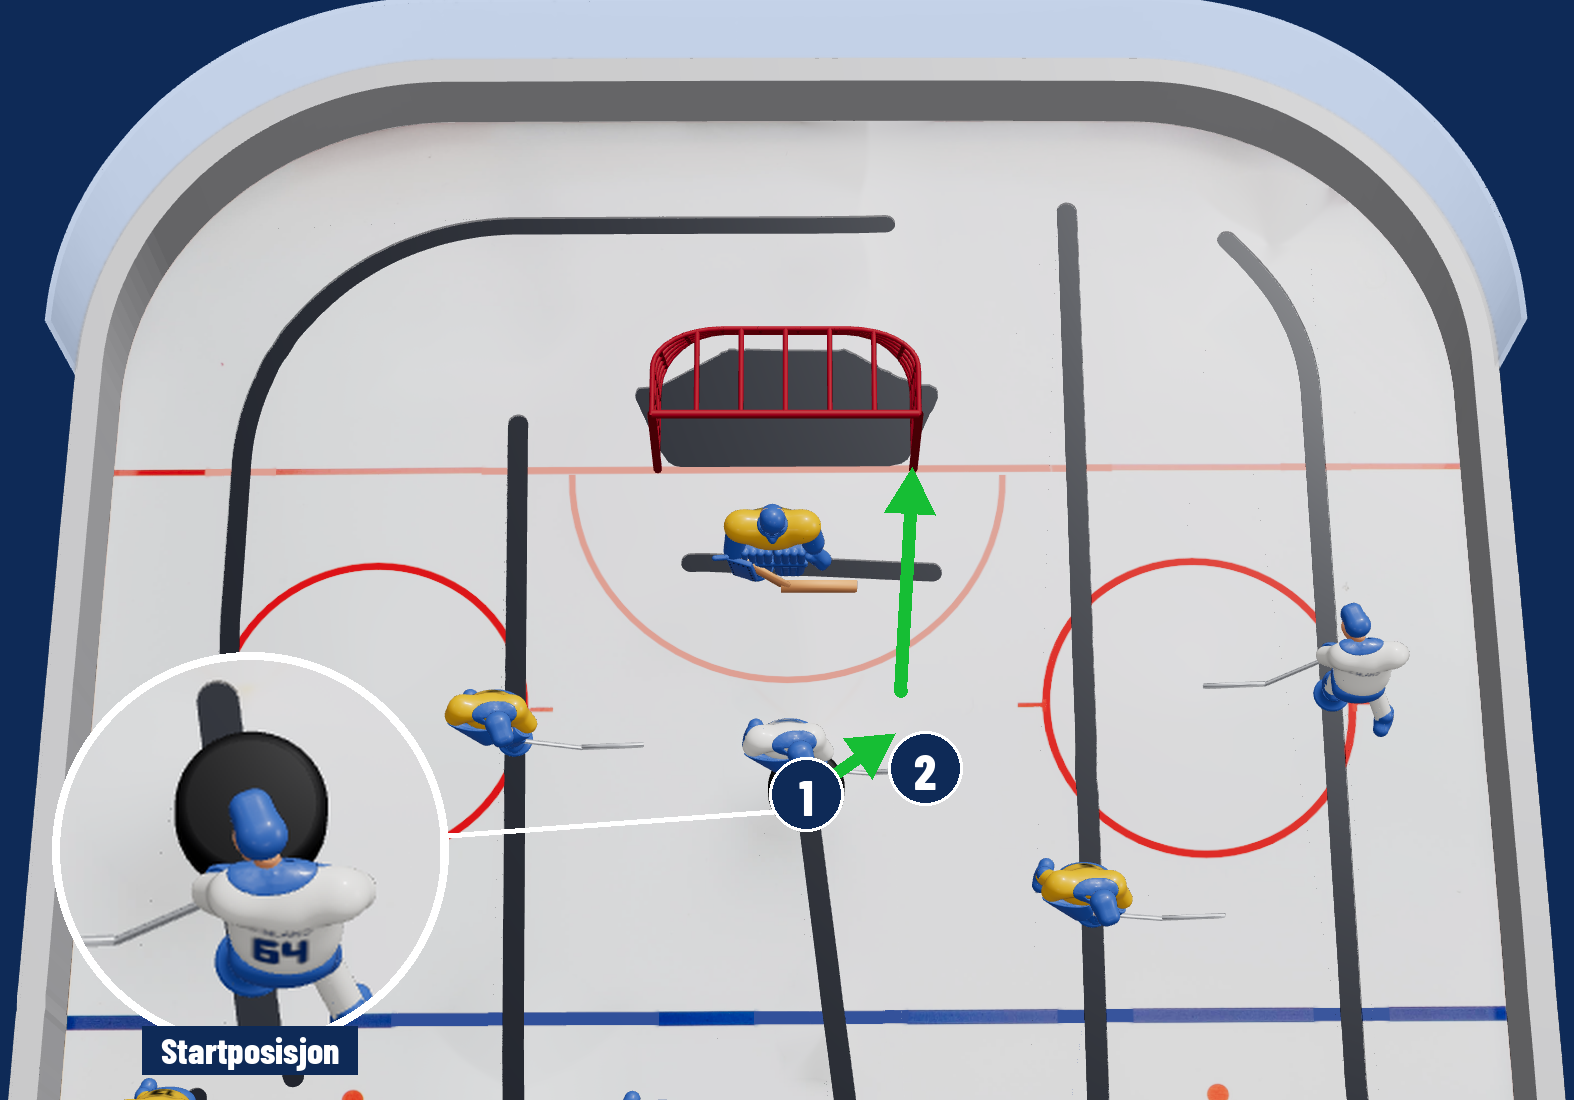
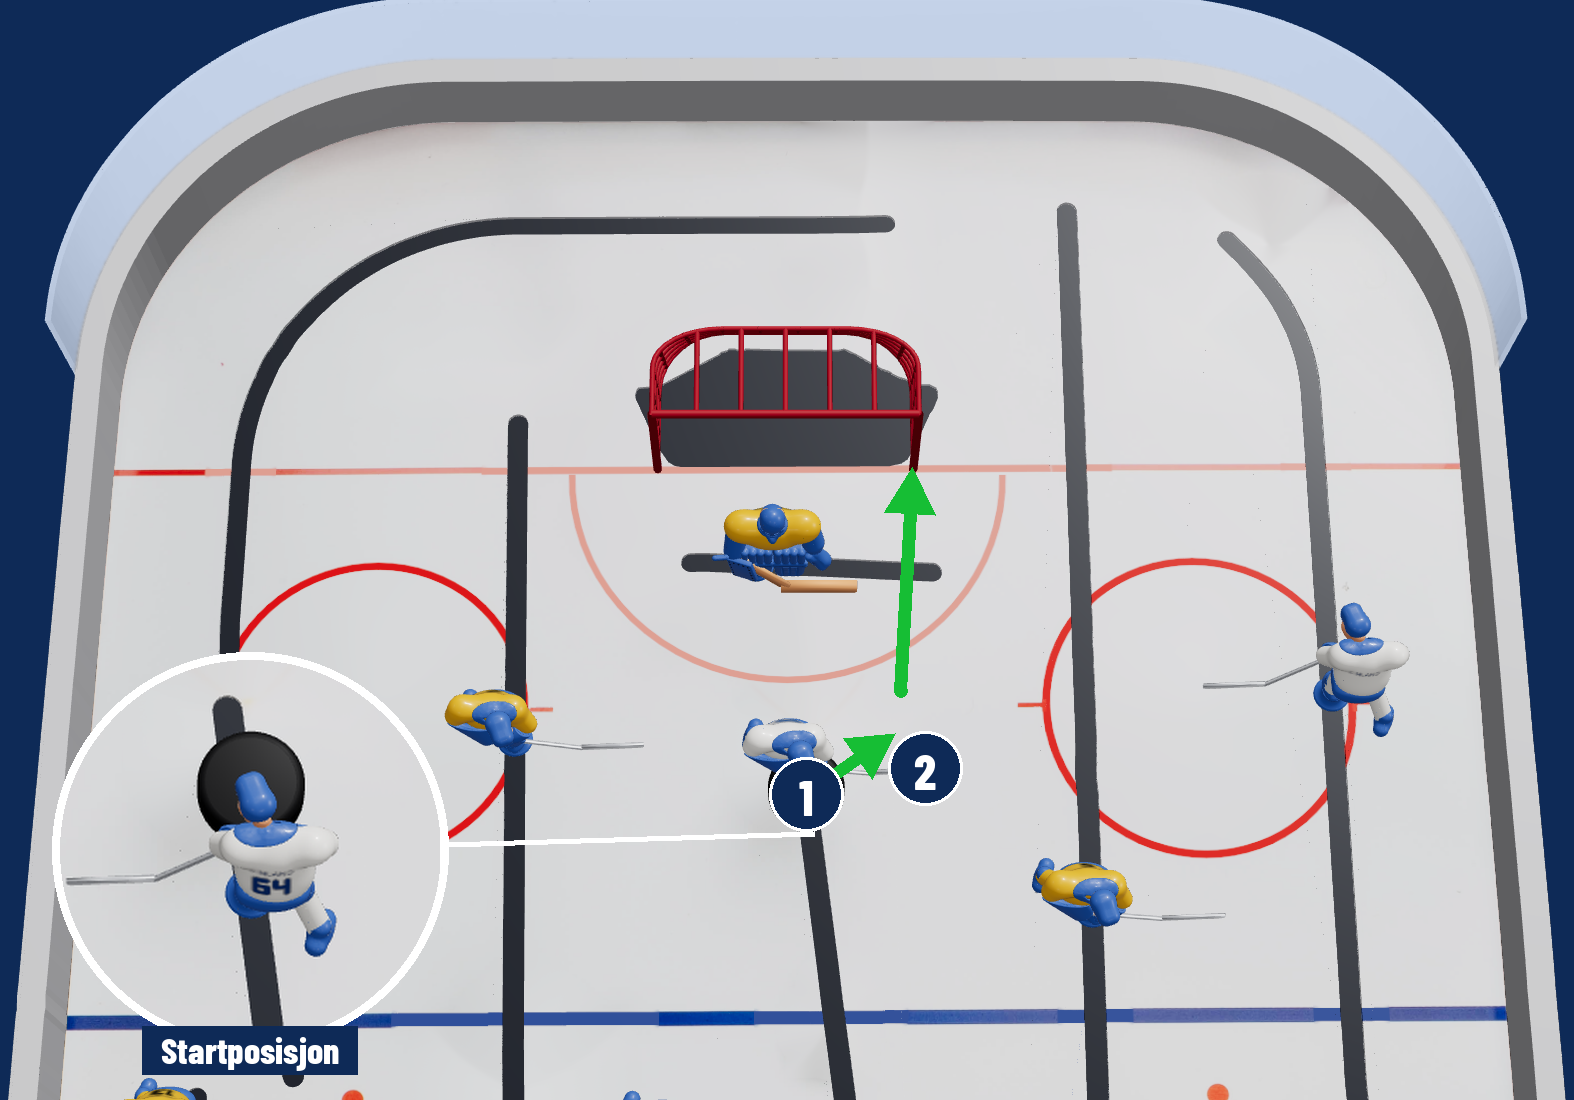
Move pictures: zoom the Startposisjon bubble out to show the whole centre
Claude-Session: https://claude.ai/code/session_01BNTiwfvDFK1dJGset6TA2u

Changed region(s): [[0.0311, 0.6182, 0.249, 0.9273], [0.2802, 0.7109, 0.4981, 0.7727]]

diff --git a/scripts/move-pictures/build.py b/scripts/move-pictures/build.py
@@ -366,8 +366,8 @@ def draw(spec, geo):
         gb = Image.open(OUT / f"{spec['id']}-ghost-base.png").convert("RGB")
         gx, gy = to_px(geo, geo["ghost"]["figure_mm"])
         px, py = to_px(geo, geo["ghost"]["puck_mm"])
-        cx, cy = (gx + px) / 2 - MARGIN_L, (gy + py) / 2 - 20
-        R, zoom_half = 190, 95
+        cx, cy = (gx + px) / 2 - MARGIN_L, (gy + py) / 2 + 5
+        R, zoom_half = 190, 135  # wide enough for the whole figure (user, 2026-10-14)
         bub = gb.crop((int(cx - zoom_half), int(cy - zoom_half), int(cx + zoom_half), int(cy + zoom_half))).resize((2 * R, 2 * R), Image.LANCZOS)
         bmask = Image.new("L", (2 * R, 2 * R), 0)
         ImageDraw.Draw(bmask).ellipse([0, 0, 2 * R, 2 * R], fill=255)
